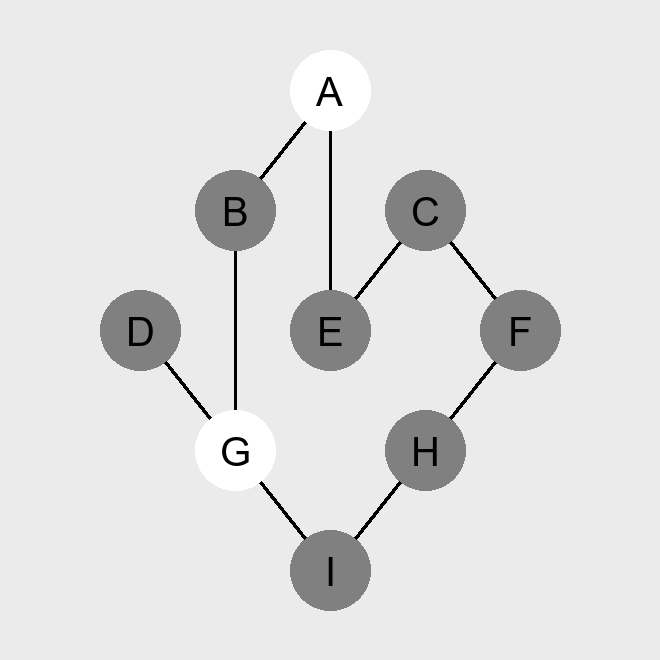
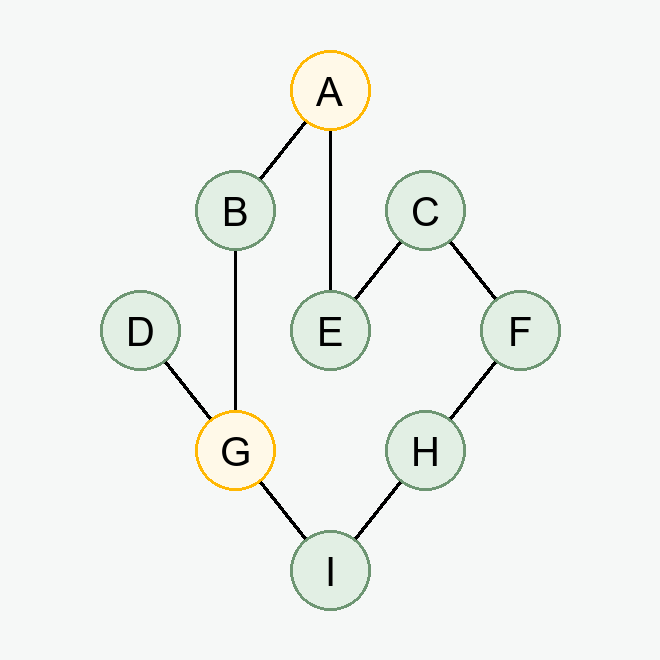
pic generator

diff --git a/utils/picture_generator.py b/utils/picture_generator.py
@@ -8,8 +8,8 @@ class ImageGenerator:
         self.end = end
         self.img_size = (660, 660)
         self.node_radius = 40
-        self.node_color = 'gray'
-        self.font_path = "arial.ttf"
+        self.node_color = '#E2EFE4'
+        self.font_path = "arial"
         self.font_size = 40
         self.h_spacing = 95
         self.v_spacing = 120
@@ -32,7 +32,7 @@ class ImageGenerator:
     def generate_image(self):
         font = ImageFont.truetype(self.font_path, self.font_size)
 
-        img = Image.new('RGB', self.img_size, '#ebebeb')
+        img = Image.new('RGB', self.img_size, '#f6f8f7')
         draw = ImageDraw.Draw(img)
 
         for node, connections in self.adjacency_list.items():
@@ -44,16 +44,15 @@ class ImageGenerator:
                     connection_pos = self.positions[connection_index]
                     draw.line([node_pos, connection_pos], fill='black', width=3)
 
-
         for i, pos in enumerate(self.positions):
             top_left = (pos[0] - self.node_radius, pos[1] - self.node_radius)
             bottom_right = (pos[0] + self.node_radius, pos[1] + self.node_radius)
 
             if self.names[i] == self.start or self.names[i] == self.end:
-                draw.ellipse([top_left, bottom_right], fill='white', outline=None)
+                draw.ellipse([top_left, bottom_right], fill='#FFF9E8', outline="#ffb804", width=3)
 
             else:
-                draw.ellipse([top_left, bottom_right], fill=self.node_color, outline=None)
+                draw.ellipse([top_left, bottom_right], fill=self.node_color, outline="#6e9673", width=3)
 
             text_size = font.getbbox(self.names[i])
             dx, dy = text_size[2] - text_size[0], text_size[3] - text_size[1]
